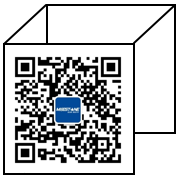
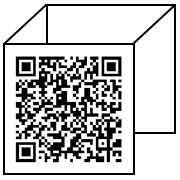
换二维码生成图修改

Changed region(s): [[0.0833, 0.3056, 0.6944, 0.9167]]

diff --git a/src/views/Composite.vue b/src/views/Composite.vue
@@ -3,7 +3,7 @@
 	<div class="com-ts">长按下方图片，『保存图片』或『发送给朋友』</div>
 	<img ref="myImg" src="" class="com-bc-img"/>
 	<div class="com-can">
-		<canvas ref="myChartI" width="630px" height="1226px"></canvas>
+		<canvas ref="myChartI" width="630px" height="1240px"></canvas>
 	</div>
   </div>
 </template>
@@ -61,12 +61,12 @@ export default {
 			let that = this;
 			
 			that.ctx.fillStyle = that.bgColor(mObj.tjImg);
-			that.ctx.fillRect(0,0,630,1226);
+			that.ctx.fillRect(0,0,630,1240);
 			that.ctx.font="28px Arial";
 			that.ctx.fillStyle="#000000";
-			that.ctx.fillText("扫 描 二 维 码",430,1170);
+			that.ctx.fillText("扫 描 二 维 码",430,1190);
 			that.ctx.font="22px Arial";
-			that.ctx.fillText("测测你的人生是否平衡",385,1200);
+			that.ctx.fillText("测测你的人生是否平衡",385,1220);
 			
 			let mName = mObj.user?mObj.user.nickname:'';
 			that.ctx.fillStyle="#000000";
@@ -106,28 +106,28 @@ export default {
 			let loadBS = new Image();//底分前图标
 			loadBS.src = that.loadBS;
 			loadBS.onload = ()=> {
-				that.ctx.drawImage(loadBS,32,880);
+				that.ctx.drawImage(loadBS,32,1035);
 				that.updateImg();
 			}; 
 
 			let loadKX = new Image();//高分前图标
 			loadKX.src = that.loadKX;
 			loadKX.onload = ()=> {
-				that.ctx.drawImage(loadKX,32,1035);
+				that.ctx.drawImage(loadKX,32,875);
 				that.updateImg();
 			}; 
 			
 			let loadFGX = new Image();//最底线图标
 			loadFGX.src = that.loadFGX;
 			loadFGX.onload = ()=> {
-				that.ctx.drawImage(loadFGX,32,1178);
+				that.ctx.drawImage(loadFGX,32,1198);
 				that.updateImg();
 			}; 
 
 			let loadEWM = new Image();//二维码图标
 			loadEWM.src = that.loadEWM;
 			loadEWM.onload = ()=> {
-				that.ctx.drawImage(loadEWM,430,960);
+				that.ctx.drawImage(loadEWM,430,980);
 				that.updateImg();
 			}; 
 
@@ -221,7 +221,7 @@ export default {
 	.com-can{
 		position: absolute;
 		width: 750px;
-		height: 1230px;
+		height: 1240px;
 		top:0;
 		left: 750px;
 	}
